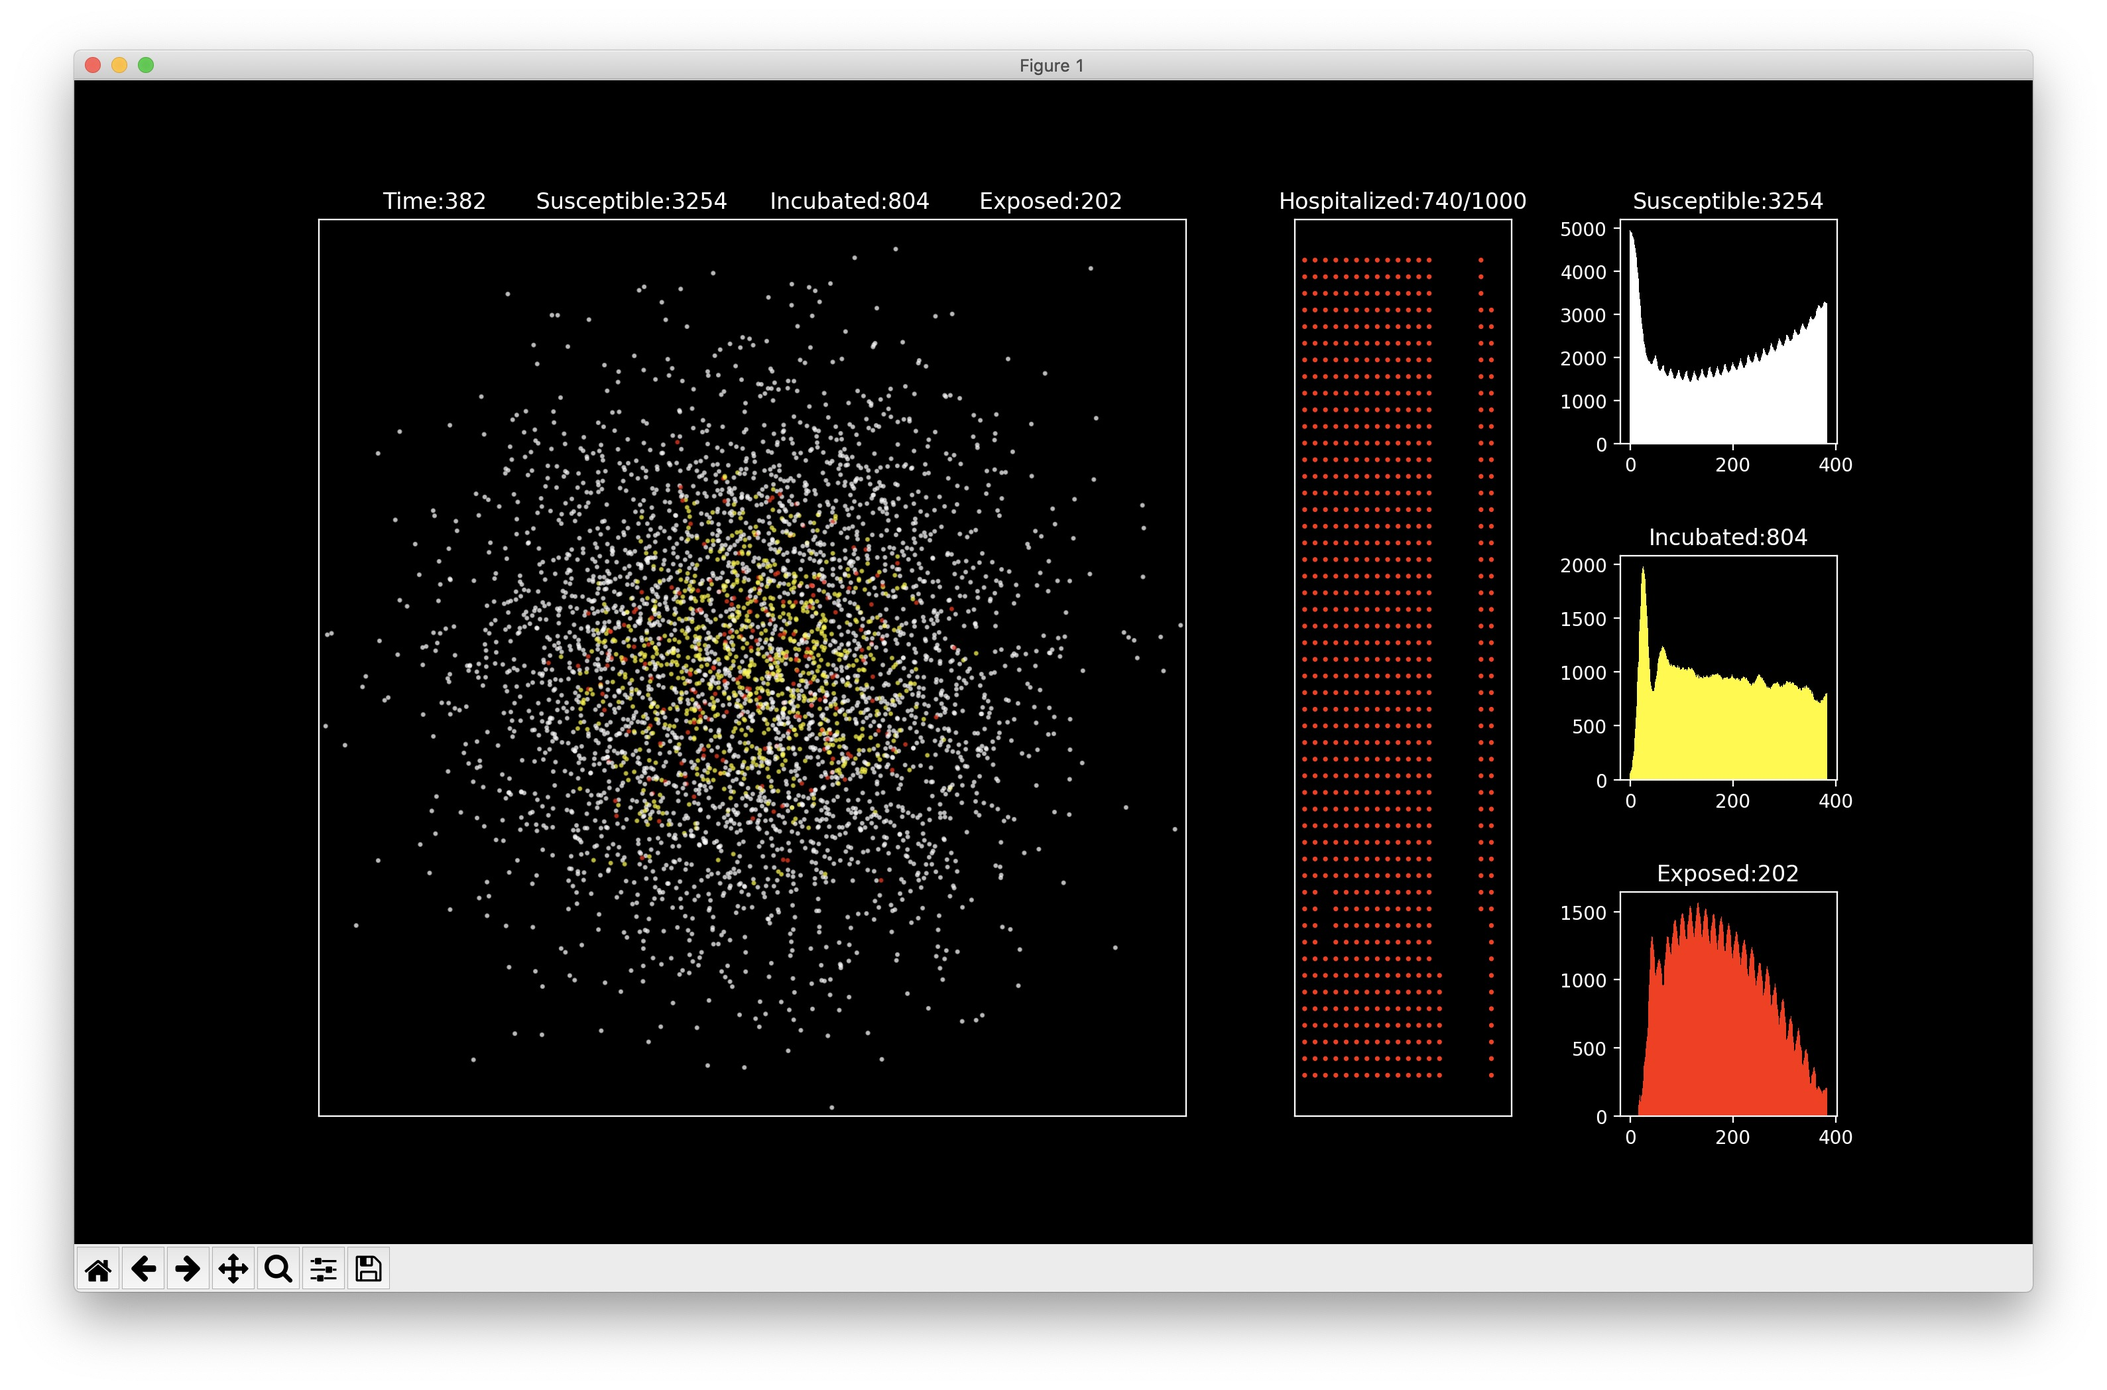
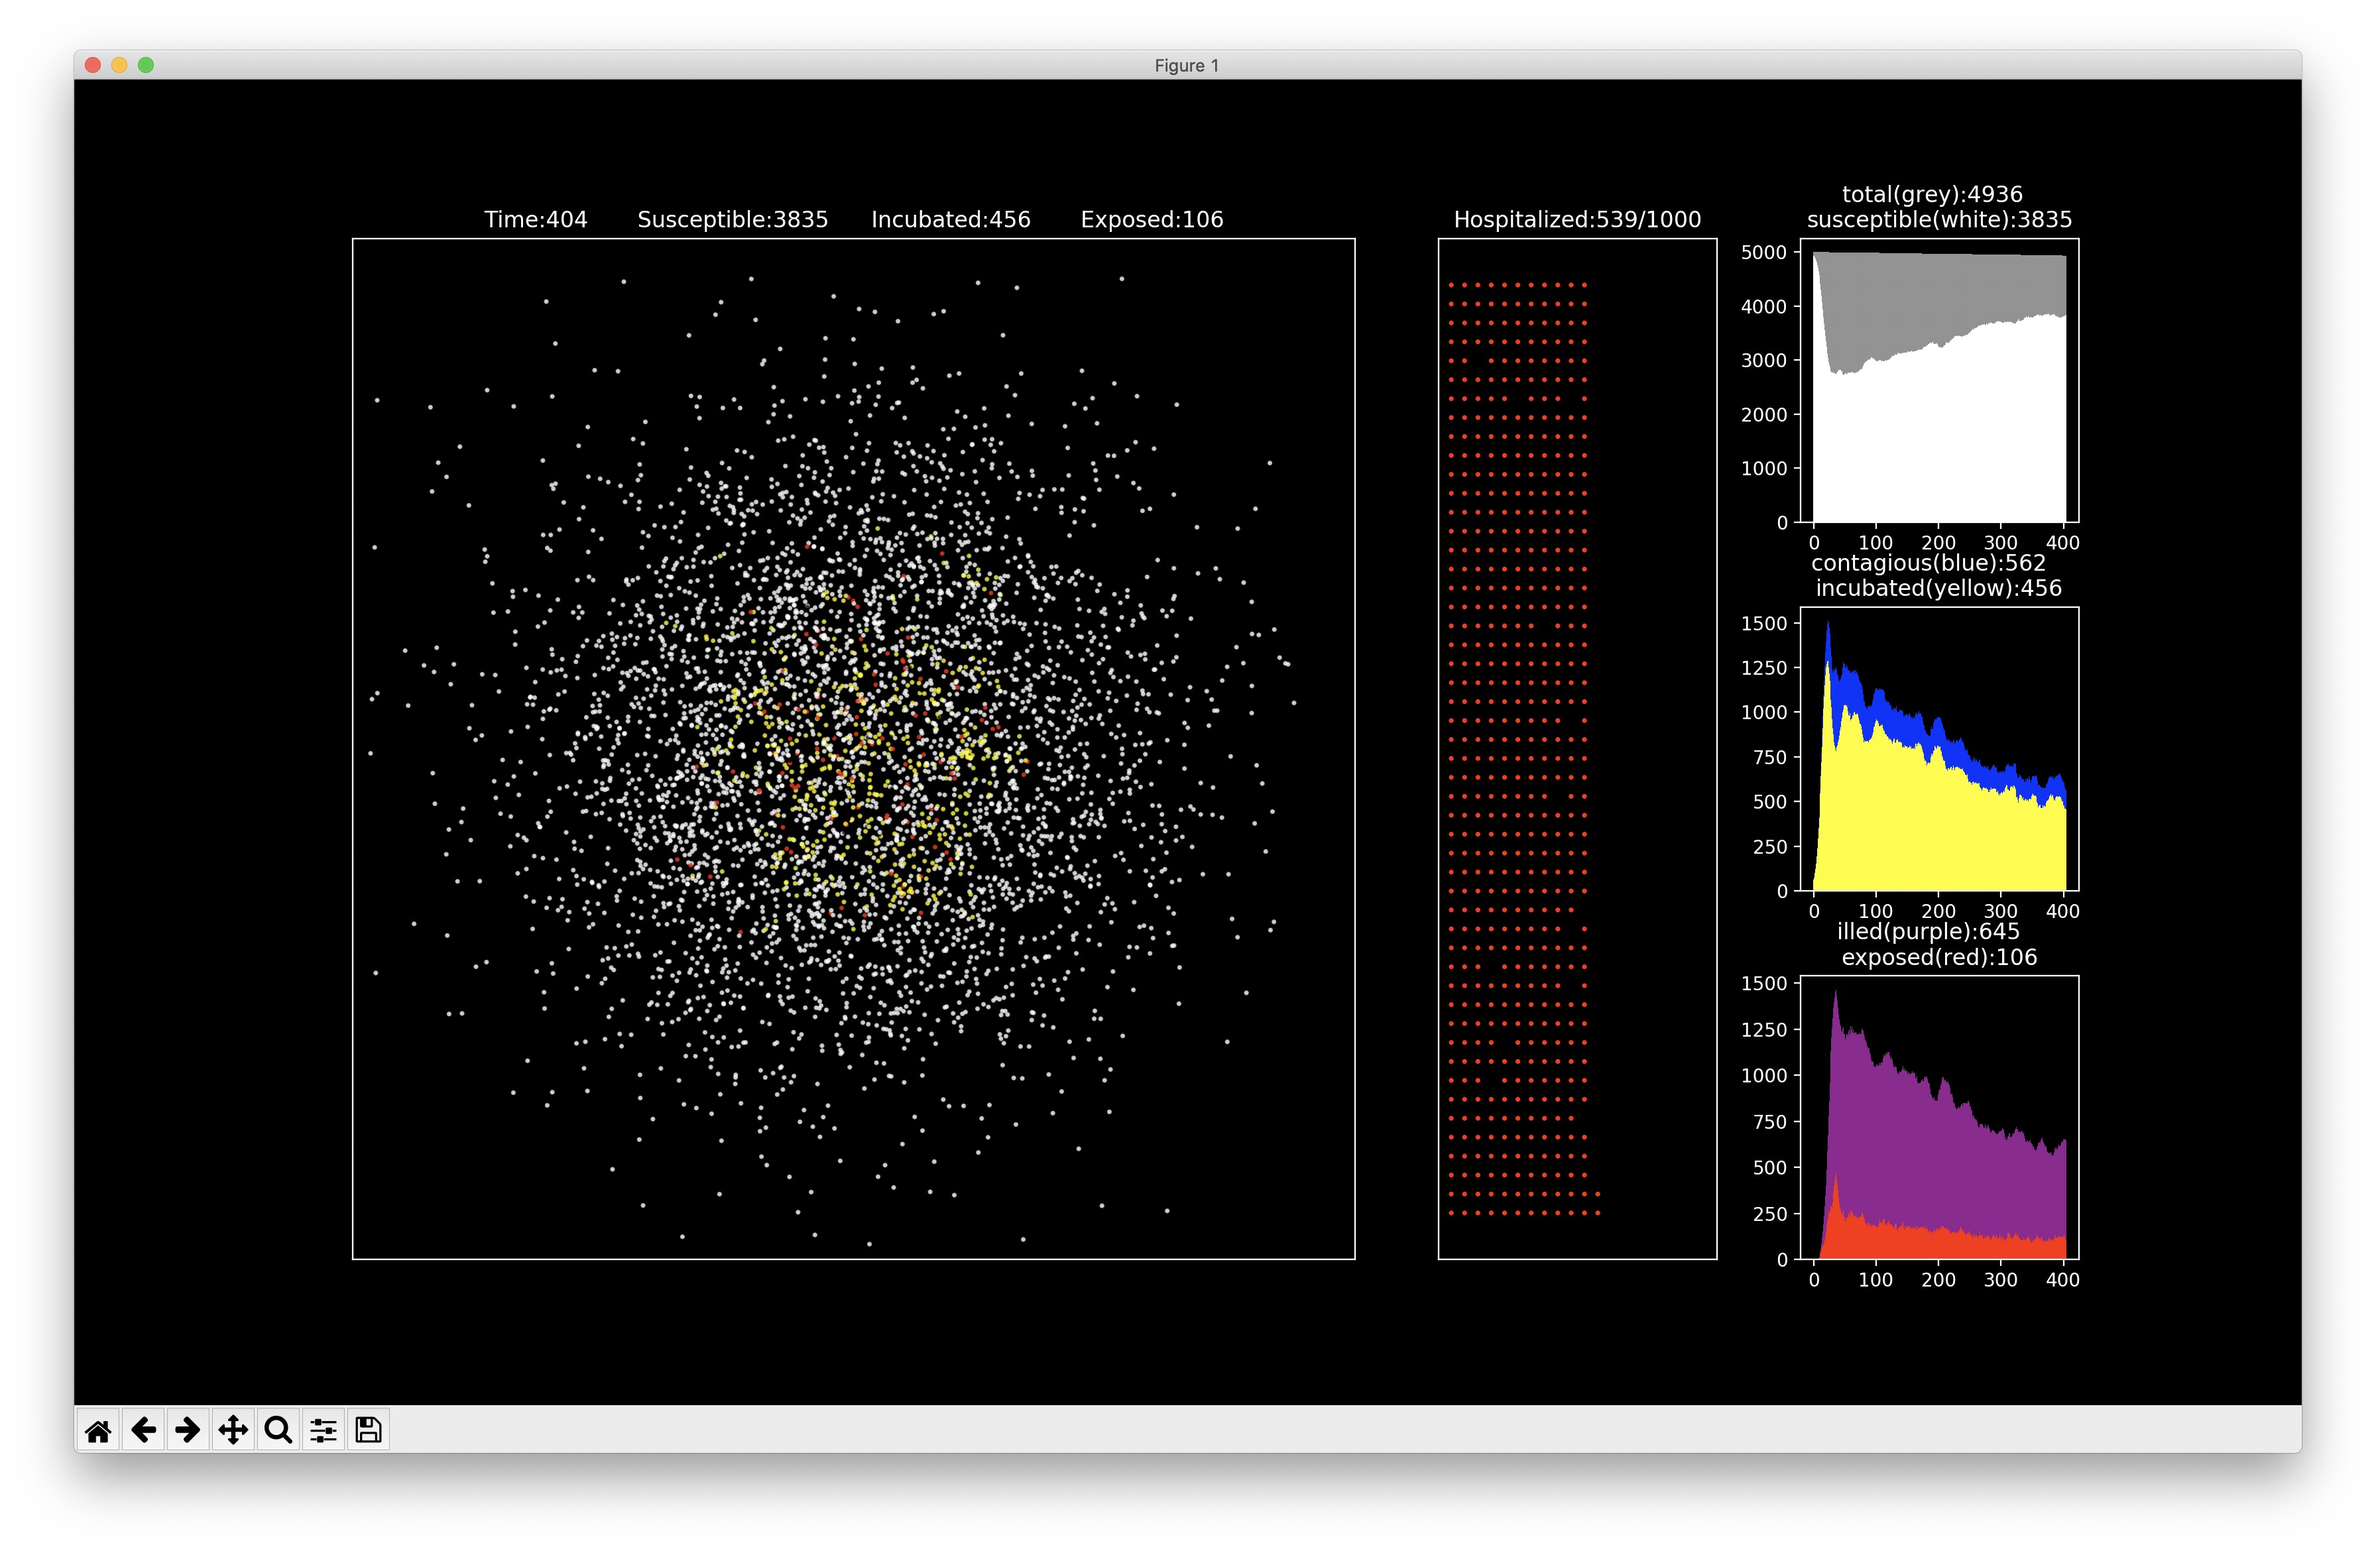
Add several statistics and DEATH_RATE

diff --git a/graph.py b/graph.py
@@ -10,13 +10,14 @@ from matplotlib import animation
 line = ['l', 'line']
 
 def graph(city, pool, hos, mode=line[0]):
-	colors_people = ['white', 'yellow', 'red', 'black'] #0未感染，1潜伏期，2感染, 3住院
+	#0未感染, 1潜伏期, 2确诊, 3住院, 4病死, 5总体得病(仅包含确诊), 6总存活人数, 7传染源
+	colors_people = ['white', 'yellow', 'red', 'black', 'black', 'purple', 'grey', 'blue'] 
 	colors_bed = ['red', 'black'] #0有人，1无人
 
 	fig = plt.figure(figsize=(20, 10))
 	plt.style.use('dark_background')
 	fig.patch.set_facecolor('black')
-	grid = plt.GridSpec(3, 5, wspace=0.5, hspace=0.5)
+	grid = plt.GridSpec(3, 5, wspace=0.3, hspace=0.3)
 	ax1 = plt.subplot(grid[0:3, 0:3])
 	ax2 = plt.subplot(grid[0:3, 3])
 
@@ -26,8 +27,11 @@ def graph(city, pool, hos, mode=line[0]):
 
 	if mode in line:
 		ax3_ydata = [0, 0]
+		ax3_totdata = [0, 0]
 		ax4_ydata = [0, 0]
+		ax4_totdata = [0, 0]
 		ax5_ydata = [0, 0]
+		ax5_totdata = [0, 0]
 
 	hosX = hos.getX()
 	hosY = hos.getY()
@@ -43,11 +47,17 @@ def graph(city, pool, hos, mode=line[0]):
 		incubated = np.sum(status == 1)
 		exposed = np.sum(status == 2)
 		hospitalized = np.sum(status_hos == False)
+		illed = exposed + hospitalized # 仅包含确诊
+		contagious = incubated + exposed # 能传染给他人的
+		total = susceptible + incubated + illed
 
 		if mode in line:
 			ax3_ydata[1] = susceptible
+			ax3_totdata[1] = total
 			ax4_ydata[1] = incubated
+			ax4_totdata[1] = contagious
 			ax5_ydata[1] = exposed
+			ax5_totdata[1] = illed
 
 		fig.canvas.restore_region(axbackground)
 		fig.canvas.restore_region(ax2background)
@@ -71,23 +81,32 @@ def graph(city, pool, hos, mode=line[0]):
 		if mode in line:
 			if (time >= 1):
 				ax3.plot([time-1, time], ax3_ydata, color = colors_people[0])
+				ax3.plot([time-1, time], ax3_totdata, color = colors_people[6])
 				ax4.plot([time-1, time], ax4_ydata, color = colors_people[1])
+				ax4.plot([time-1, time], ax4_totdata, color = colors_people[7])
 				ax5.plot([time-1, time], ax5_ydata, color = colors_people[2])
+				ax5.plot([time-1, time], ax5_totdata, color = colors_people[5])
 		else:
+			ax3.bar(time, total, color = colors_people[6], width=1)
 			ax3.bar(time, susceptible, color = colors_people[0], width=1)
+			ax4.bar(time, contagious, color = colors_people[7], width=1)
 			ax4.bar(time, incubated, color = colors_people[1], width=1)
+			ax5.bar(time, illed, color = colors_people[5], width=1)
 			ax5.bar(time, exposed, color = colors_people[2], width=1)
 
-		ax3.set_title(f'Susceptible:{susceptible}')
-		ax4.set_title(f'Incubated:{incubated}')
-		ax5.set_title(f'Exposed:{exposed}')
+		ax3.set_title(f'total({colors_people[6]}):{total:<6}\nsusceptible({colors_people[0]}):{susceptible}')
+		ax4.set_title(f'contagious({colors_people[7]}):{contagious:<6}\nincubated({colors_people[1]}):{incubated}')
+		ax5.set_title(f'illed({colors_people[5]}):{illed:<6}\nexposed({colors_people[2]}):{exposed}')
 
 		pool.update(time, hos)
 		# plt.pause(0.00001)
 		if mode in line:
 			ax3_ydata[0] = susceptible
+			ax3_totdata[0] = total
 			ax4_ydata[0] = incubated
+			ax4_totdata[0] = contagious
 			ax5_ydata[0] = exposed
+			ax5_totdata[0] = illed
 
 		return 0
 

diff --git a/peoplepool.py b/peoplepool.py
@@ -4,11 +4,12 @@ from scipy.spatial.distance import cdist
 from math import sqrt
 
 class PeoplePool:
-	def __init__(self, num, city, BROAD_RATE, SHADOW_TIME, \
+	def __init__(self, num, city, BROAD_RATE, DEATH_RATE, SHADOW_TIME, \
 			HOSPITAL_RECEIVE_TIME, CURE_TIME, SAFETY_DIST, u, FLUCTUATION):
 		# self.city = city
 		self.peoples = np.array([])
 		self.BROAD_RATE = BROAD_RATE
+		self.DEATH_RATE = DEATH_RATE
 		self.SHADOW_TIME = SHADOW_TIME
 		self.HOSPITAL_RECEIVE_TIME = HOSPITAL_RECEIVE_TIME
 		self.CURE_TIME = CURE_TIME
@@ -60,6 +61,9 @@ class PeoplePool:
 					people.confirmed_time = time
 					people.status = 2
 			elif people.status == 2:
+				if np.random.rand() < self.DEATH_RATE:
+					people.status = 4
+					continue
 				if (time - people.confirmed_time) > np.random.normal(self.HOSPITAL_RECEIVE_TIME, self.FLUCTUATION):
 					tmp = hospital.pickBed()
 					if tmp == None:
@@ -69,6 +73,11 @@ class PeoplePool:
 						people.status = 3
 						people.hospitalized_time = time
 			elif people.status == 3:
+				if np.random.rand() < self.DEATH_RATE / 10:
+					people.status = 4
+					people.bed.isEmpty = True
+					people.bed = None
+					continue
 				if (time - people.hospitalized_time) > np.random.normal(self.CURE_TIME, self.FLUCTUATION):
 					people.status = 0
 					people.bed.isEmpty = True
@@ -76,5 +85,6 @@ class PeoplePool:
 					people.hospitalized_time = None
 					people.confirmed_time = None
 					people.infected_time = None
-
+			elif people.status == 4:
+				continue
 			people.move(self.u, self.SCALE)

diff --git a/main.py b/main.py
@@ -10,14 +10,15 @@ def init():
 	SHADOW_TIME = 14 #平均潜伏时间
 	HOSPITAL_RECEIVE_TIME = 3 #平均医院收治时间
 	CURE_TIME = 14 #平均治疗时间
+	DEATH_RATE = 0.01/CURE_TIME #每日死亡概率
 	BED_COUNT = 1000 #医院床位
 	SAFETY_DIST = 15 #安全距离
 	FLUCTUATION = 4 #各参数与平均值之间的波动(高斯函数标准差)
-	u = np.exp(0.99) #流动意向
+	u = np.exp(1) #流动意向
 	PERSON_COUNT = 5000 #城市内人数
 
 	city = City(0, 0)
-	pool = PeoplePool(PERSON_COUNT, city, BROAD_RATE, SHADOW_TIME, \
+	pool = PeoplePool(PERSON_COUNT, city, BROAD_RATE, DEATH_RATE, SHADOW_TIME, \
 					  HOSPITAL_RECEIVE_TIME, CURE_TIME, SAFETY_DIST, u, FLUCTUATION)
 	hos = Hospital(BED_COUNT)
 
@@ -34,4 +35,4 @@ def choose(city, pool, hos, mode='bar'): # mode='l'或者'line'时为折线图(l
 
 if '__main__' == __name__:
 	city, pool, hos = init()
-	choose(city, pool, hos, 'l')
+	choose(city, pool, hos)

diff --git a/people.py b/people.py
@@ -5,7 +5,7 @@ class People:
 		self.x = x
 		self.y = y
 		# self.city = city
-		self.status = 0 #0未感染，1潜伏期，2感染, 3住院
+		self.status = 0 #0未感染，1潜伏期，2感染, 3住院, 4病死
 		self.bed = None
 		self.infected_time = None
 		self.confirmed_time = None
